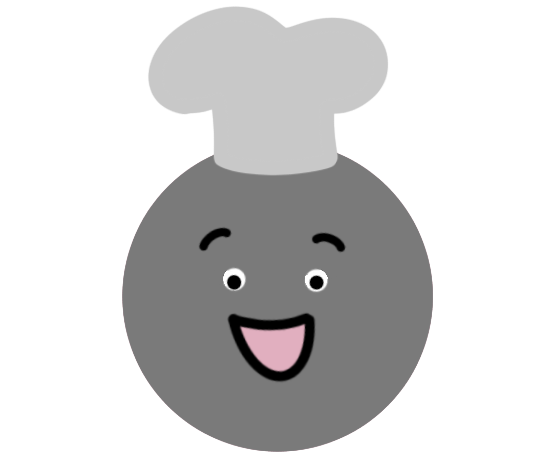
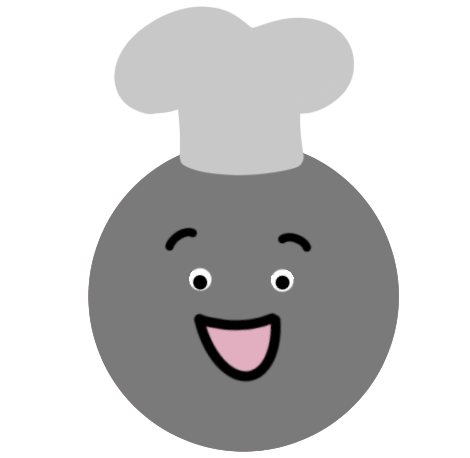
images to src

diff --git a/src/Game.java b/src/Game.java
@@ -15,10 +15,9 @@ public class Game {
 
     }
 
-    public Draw getWindow(){
+    public Draw getWindow() {
         return window;
     }
-
 
     public static void main(String[] args){
         Game game = new Game();
@@ -30,7 +29,17 @@ public class Game {
         table1.draw();
         Table table2 = new Table(70, 20, 25, 25, game, "2");
         table2.draw();
+        Table table3 = new Table(30, 50, 25, 25, game, "3");
+        table3.draw();
+        Table table4 = new Table(70, 50, 25, 25, game, "4");
+        table4.draw();
+
+        //Draw kitchen
+        Kitchen kitchen = new Kitchen(game);
+        kitchen.draw();
+
         game.window.show();
+
 
     }
 

diff --git a/src/Kitchen.java b/src/Kitchen.java
@@ -1,0 +1,17 @@
+import java.awt.*;
+
+public class Kitchen {
+    private Game game;
+
+    public Kitchen(Game game) {
+        this.game = game;
+    }
+
+    public void draw() {
+        game.getWindow().setPenColor(240, 200, 81);
+        game.getWindow().filledRectangle(50, 90, 50, 10);
+        game.getWindow().picture(50, 90, "chef.png", 20, 20);
+        game.getWindow().setPenColor(40, 96, 109);
+        game.getWindow().filledRectangle(50, 80, 50, 3);
+    }
+}

diff --git a/src/Customer.java b/src/Customer.java
@@ -38,7 +38,6 @@ public class Customer {
 
     }
 
-
     public void order(){
 
     }
